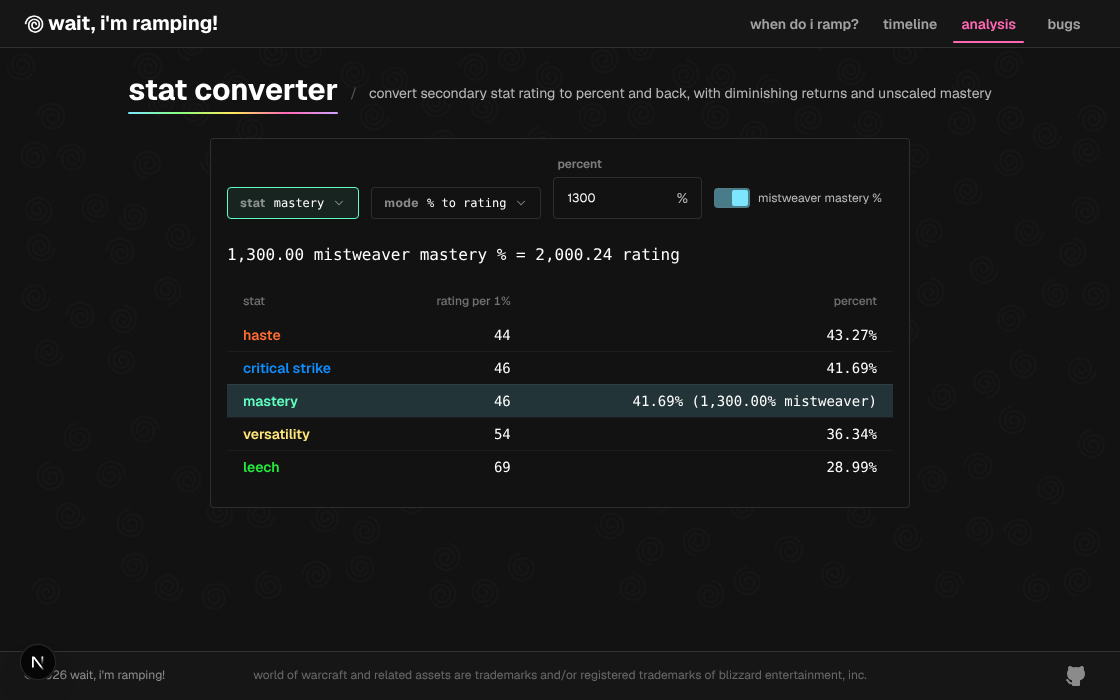
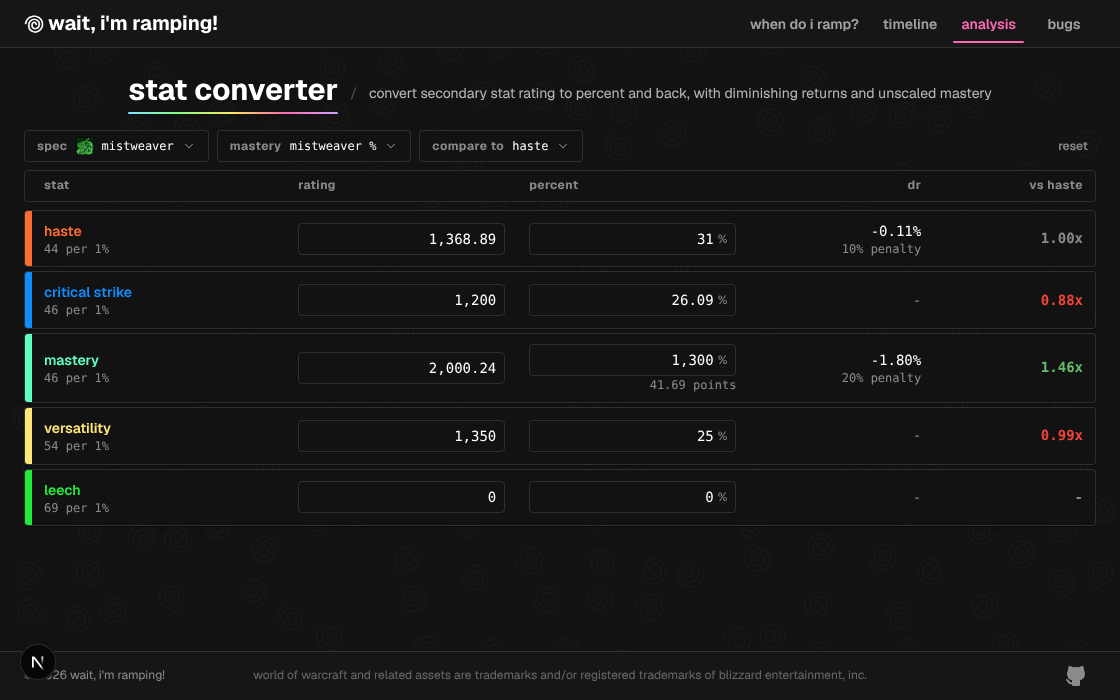
feat(analysis): rework stat converter into linked per-stat rows

diff --git a/app/analysis/stat-converter/StatConverter.tsx b/app/analysis/stat-converter/StatConverter.tsx
@@ -1,124 +1,264 @@
 "use client";
-import SwirlToggle from "@components/Buttons/SwirlToggle";
-import { SelectChip } from "@components/FilterChips/FilterChips";
+import { SelectChip, SpecChip } from "@components/FilterChips/FilterChips";
+import { GlassTooltip } from "@components/Glass";
 import PageHeader from "@components/PageHeader/PageHeader";
-import SwirlField from "@components/SwirlField/SwirlField";
-import { FONT, MONO_FONT } from "@components/Theme/tokens";
+import SwirlTable, { type SwirlColumn } from "@components/SwirlTable/SwirlTable";
+import { motion } from "@components/Theme/motion";
+import { CHIP_HEIGHT, CONTENT_WIDTH, FONT, MONO_FONT } from "@components/Theme/tokens";
 import { useSpec } from "@context/SpecContext";
 import { STAT_COLORS, STATS } from "@data/shared/stats";
-import { Box, Card, CardContent, Table, TableBody, TableCell, TableHead, TableRow, Typography } from "@mui/material";
+import { Box, Container, InputBase, Typography, useMediaQuery, useTheme } from "@mui/material";
 import { formatNumber, formatPercent } from "@util/stringManipulation";
 import type React from "react";
-import { useMemo, useState } from "react";
+import { useState } from "react";
 
-import { MAX_PERCENT, MAX_RAW_PERCENT, percentToRating, RATING_PER_PERCENT, ratingToPercent, type StatKey } from "./convert";
+import { currentPenalty, MAX_PERCENT, MAX_RAW_PERCENT, percentToRating, RATING_PER_PERCENT, ratingToPercent, type StatKey } from "./convert";
 
-type Mode = "rating" | "percent";
+type MasteryUnit = "spec" | "points";
 
-const STAT_ROWS: { key: StatKey; label: string; color: string }[] = [
-    { key: "haste", label: STATS.HASTE, color: STAT_COLORS.HASTE },
-    { key: "crit", label: STATS.CRIT, color: STAT_COLORS.CRIT },
-    { key: "mastery", label: STATS.MASTERY, color: STAT_COLORS.MASTERY },
-    { key: "vers", label: STATS.VERS, color: STAT_COLORS.VERS },
-    { key: "leech", label: STATS.LEECH, color: STAT_COLORS.LEECH },
+interface StatRow {
+    key: StatKey;
+    label: string;
+    short: string;
+    color: string;
+}
+
+const STAT_ROWS: StatRow[] = [
+    { key: "haste", short: "haste", label: STATS.HASTE, color: STAT_COLORS.HASTE },
+    { key: "crit", short: "crit", label: STATS.CRIT, color: STAT_COLORS.CRIT },
+    { key: "mastery", short: "mastery", label: STATS.MASTERY, color: STAT_COLORS.MASTERY },
+    { key: "vers", short: "vers", label: STATS.VERS, color: STAT_COLORS.VERS },
+    { key: "leech", short: "leech", label: STATS.LEECH, color: STAT_COLORS.LEECH },
 ];
 
-const MODE_OPTIONS = [
-    { value: "rating", label: "Rating to %" },
-    { value: "percent", label: "% to Rating" },
-];
+const EMPTY_RATINGS: Record<StatKey, number> = { haste: 0, crit: 0, mastery: 0, vers: 0, leech: 0 };
 
-const StatConverter: React.FC<{ title: React.ReactNode; description: React.ReactNode }> = ({ title, description }) => {
-    const { spec } = useSpec();
-    const [stat, setStat] = useState<StatKey>("mastery");
-    const [mode, setMode] = useState<Mode>("percent");
-    const [value, setValue] = useState<number | "">(1300);
-    const [scaled, setScaled] = useState(true);
+const numeric = { fontFamily: MONO_FONT, fontVariantNumeric: "tabular-nums", whiteSpace: "nowrap" };
 
-    const coefficient = spec.masteryCoefficient;
-    const current = STAT_ROWS.find((s) => s.key === stat) ?? STAT_ROWS[0];
-    const scaledInput = stat === "mastery" && mode === "percent" && scaled;
-    const input = value === "" ? 0 : value;
+const trim = (n: number) => String(Number.parseFloat(n.toFixed(2)));
 
-    const rating = useMemo(() => {
-        if (mode === "rating") return input;
-        return percentToRating(scaledInput ? input / coefficient : input, RATING_PER_PERCENT[stat]);
-    }, [mode, input, scaledInput, coefficient, stat]);
-
-    const unreachable = rating === null;
-    const capped = rating !== null && rating / RATING_PER_PERCENT[stat] >= MAX_RAW_PERCENT;
-    const unit = mode === "rating" ? "rating" : stat === "mastery" && scaled ? `${spec.name} mastery %` : stat === "mastery" ? "mastery points" : "%";
+const NumberInput: React.FC<{ value: number; max: number; suffix?: string; compact?: boolean; onChange: (value: number) => void }> = ({
+    value,
+    max,
+    suffix,
+    compact,
+    onChange,
+}) => {
+    const [text, setText] = useState<string | null>(null);
+    const [over, setOver] = useState(false);
 
     return (
-        <Box sx={{ display: "flex", flexDirection: "column", alignItems: "center", gap: 2 }}>
-            <PageHeader title={title} subtitle={description} />
+        <GlassTooltip title={over ? `max ${formatNumber(max, 2)}${suffix ?? ""}` : ""} open={over} placement="top">
+            <Box
+                sx={{
+                    display: "flex",
+                    alignItems: "center",
+                    gap: 0.5,
+                    width: "100%",
+                    height: CHIP_HEIGHT,
+                    boxSizing: "border-box",
+                    px: compact ? 0.75 : 1,
+                    borderRadius: 1,
+                    border: "1px solid",
+                    borderColor: over ? "error.main" : "divider",
+                    transition: motion("border-color"),
+                    "&:hover": { borderColor: over ? "error.main" : "text.secondary" },
+                    "&:focus-within": { borderColor: over ? "error.main" : "text.secondary" },
+                }}
+            >
+                <InputBase
+                    value={text ?? formatNumber(value, Number.isInteger(value) ? 0 : 2)}
+                    onFocus={(e) => {
+                        setText(trim(value));
+                        requestAnimationFrame(() => e.target.select());
+                    }}
+                    onChange={(e) => {
+                        setText(e.target.value);
+                        const parsed = Number(e.target.value.replace(/,/g, ""));
+                        if (e.target.value.trim() === "" || Number.isNaN(parsed)) return;
+                        setOver(parsed > max);
+                        onChange(Math.min(Math.max(parsed, 0), max));
+                    }}
+                    onBlur={() => {
+                        setText(null);
+                        setOver(false);
+                    }}
+                    inputProps={{ inputMode: "decimal" }}
+                    sx={{ flex: 1, minWidth: 0, fontSize: compact ? FONT.small : FONT.body, "& input": { ...numeric, textAlign: "right", p: 0 } }}
+                />
+                {suffix && <Typography sx={{ fontSize: FONT.small, color: "text.disabled" }}>{suffix}</Typography>}
+            </Box>
+        </GlassTooltip>
+    );
+};
 
-            <Card variant="outlined" sx={{ maxWidth: 700, width: "95%", mx: "auto", mb: 2 }}>
-                <CardContent>
-                    <Box sx={{ display: "flex", flexWrap: "wrap", alignItems: "flex-end", gap: 1.5, mb: 3 }}>
-                        <SelectChip
-                            accent={current.color}
-                            title="stat"
-                            value={stat}
-                            options={STAT_ROWS.map((s) => ({ value: s.key, label: s.label }))}
-                            onChange={(v) => setStat(v as StatKey)}
-                            active
+const Caption: React.FC<{ children: React.ReactNode }> = ({ children }) => (
+    <Typography sx={{ ...numeric, fontSize: FONT.micro, color: "text.disabled", lineHeight: 1.2 }}>{children}</Typography>
+);
+
+const StatConverter: React.FC<{ title: React.ReactNode; description: React.ReactNode }> = ({ title, description }) => {
+    const theme = useTheme();
+    const isMobile = useMediaQuery(theme.breakpoints.down("sm"));
+    const { spec, setSpec } = useSpec();
+
+    const [ratings, setRatings] = useState<Record<StatKey, number>>(EMPTY_RATINGS);
+    const [masteryUnit, setMasteryUnit] = useState<MasteryUnit>("spec");
+    const [baseline, setBaseline] = useState<StatKey>("haste");
+
+    const coefficient = spec.masteryCoefficient;
+    const specLabel = spec.name.toLowerCase();
+    const baselineRow = STAT_ROWS.find((s) => s.key === baseline) ?? STAT_ROWS[0];
+
+    const setRating = (key: StatKey, rating: number) => setRatings((prev) => ({ ...prev, [key]: rating }));
+
+    const percentScale = (key: StatKey) => (key === "mastery" && masteryUnit === "spec" ? coefficient : 1);
+
+    const columns: SwirlColumn<StatRow>[] = [
+        {
+            key: "stat",
+            label: "stat",
+            width: isMobile ? "0.7fr" : "1.1fr",
+            render: (row) => (
+                <Box sx={{ minWidth: 0 }}>
+                    <Typography sx={{ fontSize: FONT.body, fontWeight: 600, color: row.color }}>{isMobile ? row.short : row.label}</Typography>
+                    {!isMobile && <Caption>{RATING_PER_PERCENT[row.key]} per 1%</Caption>}
+                </Box>
+            ),
+        },
+        {
+            key: "rating",
+            label: "rating",
+            width: isMobile ? "1.3fr" : "1fr",
+            render: (row) => (
+                <NumberInput
+                    compact={isMobile}
+                    value={ratings[row.key]}
+                    max={MAX_RAW_PERCENT * RATING_PER_PERCENT[row.key]}
+                    onChange={(rating) => setRating(row.key, rating)}
+                />
+            ),
+        },
+        {
+            key: "percent",
+            label: "percent",
+            width: isMobile ? "1.3fr" : "1fr",
+            render: (row) => {
+                const per = RATING_PER_PERCENT[row.key];
+                const scale = percentScale(row.key);
+                const points = ratingToPercent(ratings[row.key], per);
+                return (
+                    <Box sx={{ width: "100%", display: "flex", flexDirection: "column", alignItems: "flex-end", gap: 0.25 }}>
+                        <NumberInput
+                            compact={isMobile}
+                            value={points * scale}
+                            max={MAX_PERCENT * scale}
+                            suffix="%"
+                            onChange={(percent) => setRating(row.key, percentToRating(percent / scale, per) ?? MAX_RAW_PERCENT * per)}
                         />
-                        <SelectChip accent={current.color} title="mode" value={mode} options={MODE_OPTIONS} onChange={(v) => setMode(v as Mode)} />
-                        <SwirlField
-                            label={mode === "rating" ? "Rating" : "Percent"}
-                            value={value}
-                            onChange={setValue}
-                            suffix={mode === "rating" ? "" : "%"}
-                            width="14ch"
-                        />
-                        {stat === "mastery" && mode === "percent" && (
-                            <Box sx={{ display: "flex", alignItems: "center", gap: 1, height: 42 }}>
-                                <SwirlToggle checked={scaled} onChange={setScaled} />
-                                <Typography sx={{ fontSize: FONT.small, color: "text.secondary" }}>{spec.name} mastery %</Typography>
-                            </Box>
+                        {row.key === "mastery" && (
+                            <Caption>
+                                {masteryUnit === "spec" ? `${formatNumber(points, 2)} points` : `${formatPercent(points * coefficient)} ${specLabel}`}
+                            </Caption>
                         )}
                     </Box>
-
-                    {unreachable ? (
-                        <Typography sx={{ color: "error.main", mb: 2 }}>
-                            {formatPercent(MAX_PERCENT)} is the most {current.label} a gear rating can give
+                );
+            },
+        },
+        {
+            key: "dr",
+            label: (
+                <GlassTooltip title="Rating past 30% is penalized: 10% up to 39%, 20% to 47%, 30% to 54%, 40% to 66%, 50% to 126%">
+                    <span>dr</span>
+                </GlassTooltip>
+            ),
+            width: "0.8fr",
+            align: "right",
+            render: (row) => {
+                const per = RATING_PER_PERCENT[row.key];
+                const lost = Math.min(ratings[row.key] / per, MAX_RAW_PERCENT) - ratingToPercent(ratings[row.key], per);
+                const penalty = currentPenalty(ratings[row.key], per);
+                return (
+                    <Box sx={{ textAlign: "right" }}>
+                        <Typography sx={{ ...numeric, fontSize: FONT.body, color: lost > 0 ? "text.primary" : "text.disabled" }}>
+                            {lost > 0 ? `-${formatPercent(lost)}` : "-"}
                         </Typography>
-                    ) : (
-                        <Typography sx={{ fontFamily: MONO_FONT, mb: 2 }}>
-                            {formatNumber(input, 2)} {unit} = {formatNumber(rating, 2)} rating{capped ? " (capped)" : ""}
-                        </Typography>
-                    )}
+                        {penalty > 0 && <Caption>{penalty >= 1 ? "capped" : `${Math.round(penalty * 100)}% penalty`}</Caption>}
+                    </Box>
+                );
+            },
+        },
+        {
+            key: "vs",
+            label: isMobile ? "vs" : `vs ${baselineRow.label.toLowerCase()}`,
+            width: "0.7fr",
+            align: "right",
+            render: (row) => {
+                const base = ratings[baseline];
+                const own = ratings[row.key];
+                const text = row.key === baseline ? "1.00x" : base > 0 && own > 0 ? `${formatNumber(own / base, 2)}x` : "-";
+                const tone = row.key === baseline || base <= 0 || own <= 0 ? "text.disabled" : own >= base ? "success.main" : "error.main";
+                return <Typography sx={{ ...numeric, fontSize: FONT.body, fontWeight: 600, color: tone }}>{text}</Typography>;
+            },
+        },
+    ];
 
-                    <Table size="small">
-                        <TableHead>
-                            <TableRow>
-                                <TableCell>Stat</TableCell>
-                                <TableCell align="right">Rating per 1%</TableCell>
-                                <TableCell align="right">Percent</TableCell>
-                            </TableRow>
-                        </TableHead>
-                        <TableBody>
-                            {STAT_ROWS.map((row) => {
-                                const pct = rating === null ? null : ratingToPercent(rating, RATING_PER_PERCENT[row.key]);
-                                return (
-                                    <TableRow key={row.key} selected={row.key === stat}>
-                                        <TableCell sx={{ color: row.color, fontWeight: 600 }}>{row.label}</TableCell>
-                                        <TableCell align="right" sx={{ fontFamily: MONO_FONT }}>
-                                            {RATING_PER_PERCENT[row.key]}
-                                        </TableCell>
-                                        <TableCell align="right" sx={{ fontFamily: MONO_FONT }}>
-                                            {pct === null ? "-" : formatPercent(pct)}
-                                            {pct !== null && row.key === "mastery" && ` (${formatPercent(pct * coefficient)} ${spec.name})`}
-                                        </TableCell>
-                                    </TableRow>
-                                );
-                            })}
-                        </TableBody>
-                    </Table>
-                </CardContent>
-            </Card>
-        </Box>
+    return (
+        <Container sx={{ display: "flex", flexDirection: "column", gap: 1, alignItems: "center", justifyContent: "center" }}>
+            <PageHeader title={title} subtitle={description} />
+
+            <Box sx={{ width: "100%", maxWidth: CONTENT_WIDTH.wide, display: "flex", alignItems: "center", gap: 1, flexWrap: "wrap" }}>
+                <SpecChip accent={spec.color} spec={spec} onChange={setSpec} />
+                <SelectChip
+                    accent={spec.color}
+                    title="mastery"
+                    value={masteryUnit}
+                    options={[
+                        { value: "spec", label: `${specLabel} %` },
+                        { value: "points", label: "points" },
+                    ]}
+                    onChange={(v) => setMasteryUnit(v as MasteryUnit)}
+                />
+                <SelectChip
+                    accent={baselineRow.color}
+                    title="compare to"
+                    value={baseline}
+                    options={STAT_ROWS.map((s) => ({ value: s.key, label: s.label }))}
+                    onChange={(v) => setBaseline(v as StatKey)}
+                />
+                <Box
+                    onClick={() => setRatings(EMPTY_RATINGS)}
+                    role="button"
+                    tabIndex={0}
+                    onKeyDown={(e) => {
+                        if (e.key === "Enter" || e.key === " ") {
+                            e.preventDefault();
+                            setRatings(EMPTY_RATINGS);
+                        }
+                    }}
+                    sx={{
+                        ml: "auto",
+                        px: 1,
+                        cursor: "pointer",
+                        userSelect: "none",
+                        fontSize: FONT.micro,
+                        fontWeight: 600,
+                        color: "text.disabled",
+                        "&:hover": { color: "text.primary" },
+                    }}
+                >
+                    reset
+                </Box>
+            </Box>
+
+            <Box sx={{ width: "100%", maxWidth: CONTENT_WIDTH.wide }}>
+                <SwirlTable
+                    rows={STAT_ROWS}
+                    rowKey={(row) => row.key}
+                    columns={isMobile ? columns.filter((c) => c.key !== "dr") : columns}
+                    accentColor={(row) => row.color}
+                />
+            </Box>
+        </Container>
     );
 };
 

diff --git a/app/analysis/stat-converter/convert.ts b/app/analysis/stat-converter/convert.ts
@@ -33,6 +33,12 @@ export const ratingToPercent = (rating: number, perPercent: number): number => {
 
 export const MAX_PERCENT = ratingToPercent(Number.POSITIVE_INFINITY, 1);
 
+export const currentPenalty = (rating: number, perPercent: number): number => {
+    const raw = Math.max(rating, 0) / perPercent;
+    const bracket = DR_BRACKETS.find(({ to }) => raw <= to);
+    return bracket ? 1 - bracket.keep : 1;
+};
+
 export const percentToRating = (percent: number, perPercent: number): number | null => {
     let remaining = Math.max(percent, 0);
     let from = 0;
